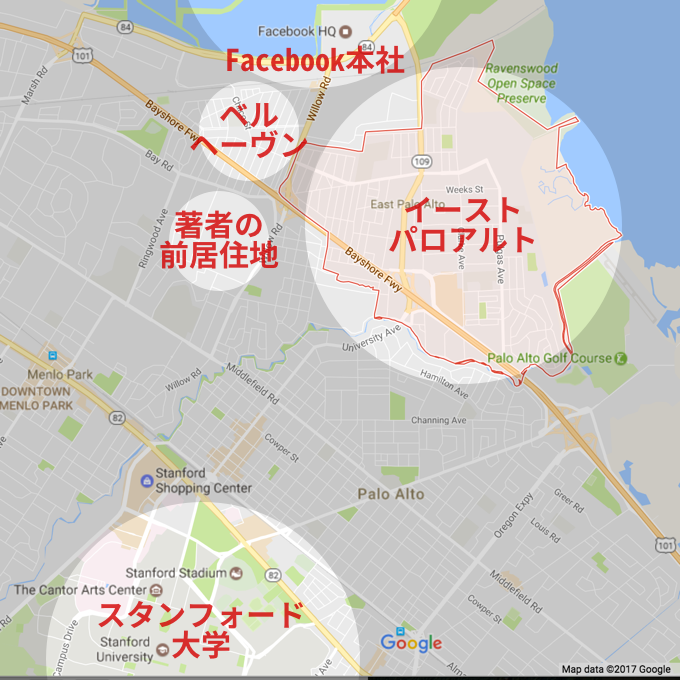
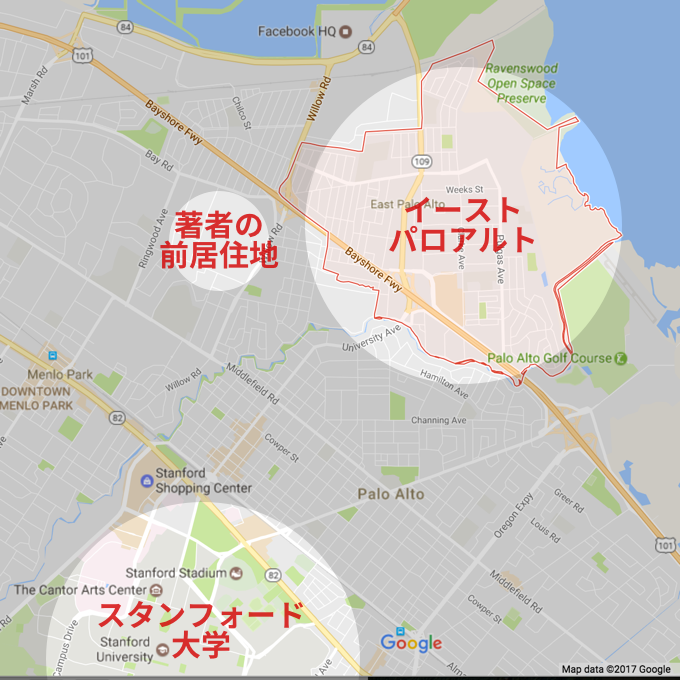
:pencil:

Changed region(s): [[0.2779, 0.0, 0.6485, 0.2779]]

diff --git a/chapter-1.md b/chapter-1.md
@@ -20,9 +20,9 @@
 
 もしぼくが今日、南相馬に生まれたとしたら、そのぼくが大学に進学するころには、市の約2人に1人が高齢者になっている。
 
-そんな街に、ぼくは希望を持てるのだろうか? 映画「君の名は。」に登場する、飛騨の田舎育ちの主人公・三葉のように、「もうこんな町いややー！こんな人生いややー！来世は東京のイケメン男子にしてくださーい！」と叫んだりしてしまうのだろうか。
+はたして、南相馬で育つぼくは希望を持てるのだろうか? 映画「君の名は。」に登場する、飛騨の田舎育ちの主人公・三葉のように、「もうこんな町いややー！こんな人生いややー！来世は東京のイケメン男子にしてくださーい！」と、ふと叫んだりしないだろうか。
 
-それとも、物心つくころには「人生なんてそんなもんさ」と思うようになるのだろうか?
+それとも、物心つくころには「人生なんてそんなもんさ」と思うようになるのだろうか。
 
 ## 相双神旗ディネード
 
@@ -105,17 +105,47 @@
 
 アメリカでは、公立学校の予算は不動産価格に比例する税収で賄われているため、ゲットー化した地域の教育レベルは停滞していた。低学歴でも以前なら工場に雇用があったが、アメリカの製造業は[1979年をピークに衰退している](http://www.cnsnews.com/news/article/terence-p-jeffrey/7231000-lost-jobs-manufacturing-employment-down-37-1979-peak)。ゲットーの路上には無職の若者が溢れるようになった。
 
-「もうこんな町いややー！こんな人生いややー！」と叫んだ黒人貧困層の若者にとって最後の希望は、ちょうどアメリカで流行りだしたドラッグ売買だった。ギャングに入団してコカインやヘロインを売れば一日何百ドルも稼げる。廃墟になった建物はアジトとして利用され、ギャングの銃撃戦で治安が悪化し、「赤の地域」は「血塗られた地域」になった。
+「もうこんな町いややー！こんな人生いややー！」と叫んだ黒人貧困層にとって最後の希望は、女性なら売春、男性ならアメリカ中で流行りだしたドラッグ売買だった。ギャングに入団してコカインやヘロインを売れば一日何百ドルも稼げる。廃墟になった建物はアジトとして利用され、ギャングの銃撃戦で治安が悪化し、「赤の地域」は「血塗られた地域」になった。
 
-物心つくころには「人生なんてそんなもんさ」と思ってギャングに入った若年男性は、この時期に次々と堕ちていく。1984年から1994年にかけて、[14歳から24歳の黒人男性が殺人で死ぬ確率は全米で倍増した](http://scholar.harvard.edu/files/fryer/files/fhlm_crack_cocaine_0.pdf)。
+1984年から1994年にかけて、[14歳から24歳の黒人男性が殺人で死ぬ確率は全米で倍増した](http://scholar.harvard.edu/files/fryer/files/fhlm_crack_cocaine_0.pdf)。
 
-## Test
+## イースト・パロアルト
 
 舞台をサンフランシスコ近郊に戻そう。シリコンバレーの中心・スタンフォード大学から車で15分の距離にある、イースト・パロアルト。ここも昔は「赤の地域」だった。
 
 <p><figure>
-  <img src="images/east-paloalto.jpg" />
-  <figcaption>写真: <a href="https://www.flickr.com/photos/bike/190157514">Richard Masoner</a> (CC-BY-SA)</figcaption>
+  <img src="images/east-paloalto.png" />
+  <figcaption><a href="https://goo.gl/maps/tmWTyNbyMd82">Google Maps</a></figcaption>
 </figure></p>
 
-イースト・パロアルトは[1992年に市内での殺人率が全米最高](http://articles.latimes.com/1993-01-05/local/me-833_1_east-palo-alto)となった。殺人発生率は[同時期の日本](https://ja.wikipedia.org/wiki/%E6%97%A5%E6%9C%AC%E3%81%AE%E7%8A%AF%E7%BD%AA%E3%81%A8%E6%B2%BB%E5%AE%89)の175倍というとんでもない数字である。
+ギャングの抗争のせいで、イースト・パロアルトは[1992年に市内での殺人率が全米最高](http://articles.latimes.com/1993-01-05/local/me-833_1_east-palo-alto)となった。人口あたりの殺人発生率は[同時期の日本](https://ja.wikipedia.org/wiki/%E6%97%A5%E6%9C%AC%E3%81%AE%E7%8A%AF%E7%BD%AA%E3%81%A8%E6%B2%BB%E5%AE%89)の「175倍」というとんでもない数字である。1992年といえば、シリコンバレー発祥のインテルが[世界最大の半導体企業になった年](http://www.intel.com/content/www/us/en/history/history-1992-annual-report.html)だ。シリコンバレーの隣にありながら、イースト・パロアルトはまさに別世界だった。
+
+取り締まりを強化した結果、イースト・パロアルトの犯罪は[翌年から減った](http://www.csmonitor.com/1994/0214/14081.html)。しかし、すでに堪忍袋の緒が切れてしまった黒人たちは[街を脱出してしまう](http://www.sfgate.com/news/article/TOWN-S-ETHNIC-MAKEUP-SHIFTS-Historically-Black-2982533.php)。空き家が増えたところに、今度はメキシコからの貧しい移民が大挙して[押しよせた](http://www.sfgate.com/news/article/TOWN-S-ETHNIC-MAKEUP-SHIFTS-Historically-Black-2982533.php)。
+
+ぼくは2010年にイースト・パロアルトから車で5分のところにアパートを借りた。その頃には住人の[3人に2人](https://en.wikipedia.org/wiki/East_Palo_Alto,_California)はラテン系アメリカ人になっていて、治安は最悪ではないが、ほどほどに悪かった。
+
+## 若き天才ザッカーバーグ
+
+そのイースト・パロアルトに2012年、変化が訪れた。[同年に世界最大規模の上場](https://en.wikipedia.org/wiki/Initial_public_offering_of_Facebook)を果たし、飛ぶ鳥を落とす勢いのフェイスブック社がイースト・パロアルトの真横に本社を移転したのである。
+
+<p><figure>
+  <img src="images/belle-haven.png" />
+  <figcaption><a href="https://goo.gl/maps/tmWTyNbyMd82">Google Maps</a></figcaption>
+</figure></p>
+
+<p><figure>
+  <img src="images/facebook-me.jpg" />
+  <figcaption>Facebook本社前にて。</figcaption>
+</figure></p>
+
+南相馬に相双神旗ディネードが登場したように、イースト・パロアルトにもFacebookの社長、若き天才マーク・ザッカーバーグが登場した。
+
+<p><figure>
+  <img src="images/zuck.jpg" />
+  <figcaption><a href="http://newsroom.fb.com/media-gallery/executives/mark-zuckerberg/">Facebook社の公式サイトより</a>。</figcaption>
+</figure></p>
+
+
+compare and contrast: 震災で打撃、行政の黒歴史で打撃、それぞれヒーローが現れた。
+
+疑問 / cliffhanger: ディネードはこの動画をみてもわかるように演技は一回目。ザッカーバーグは2回目。
